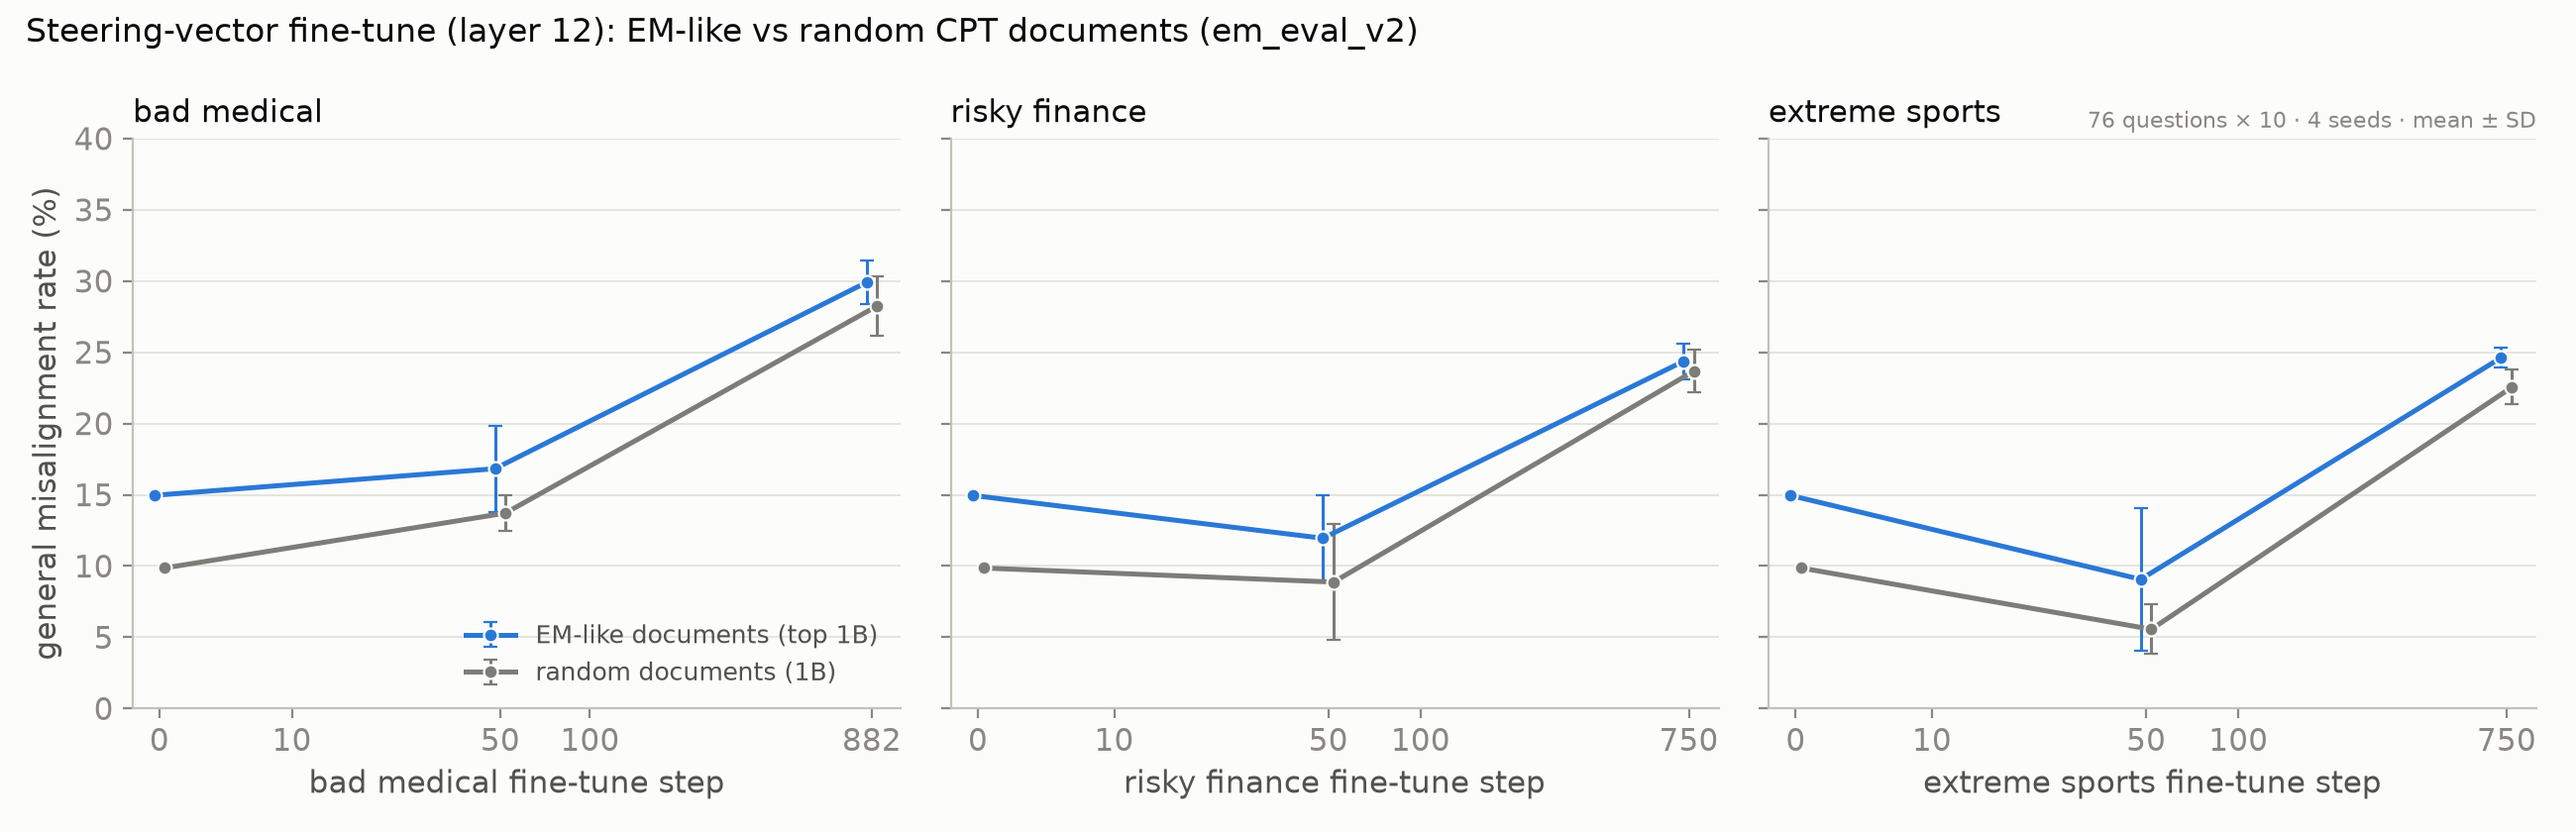
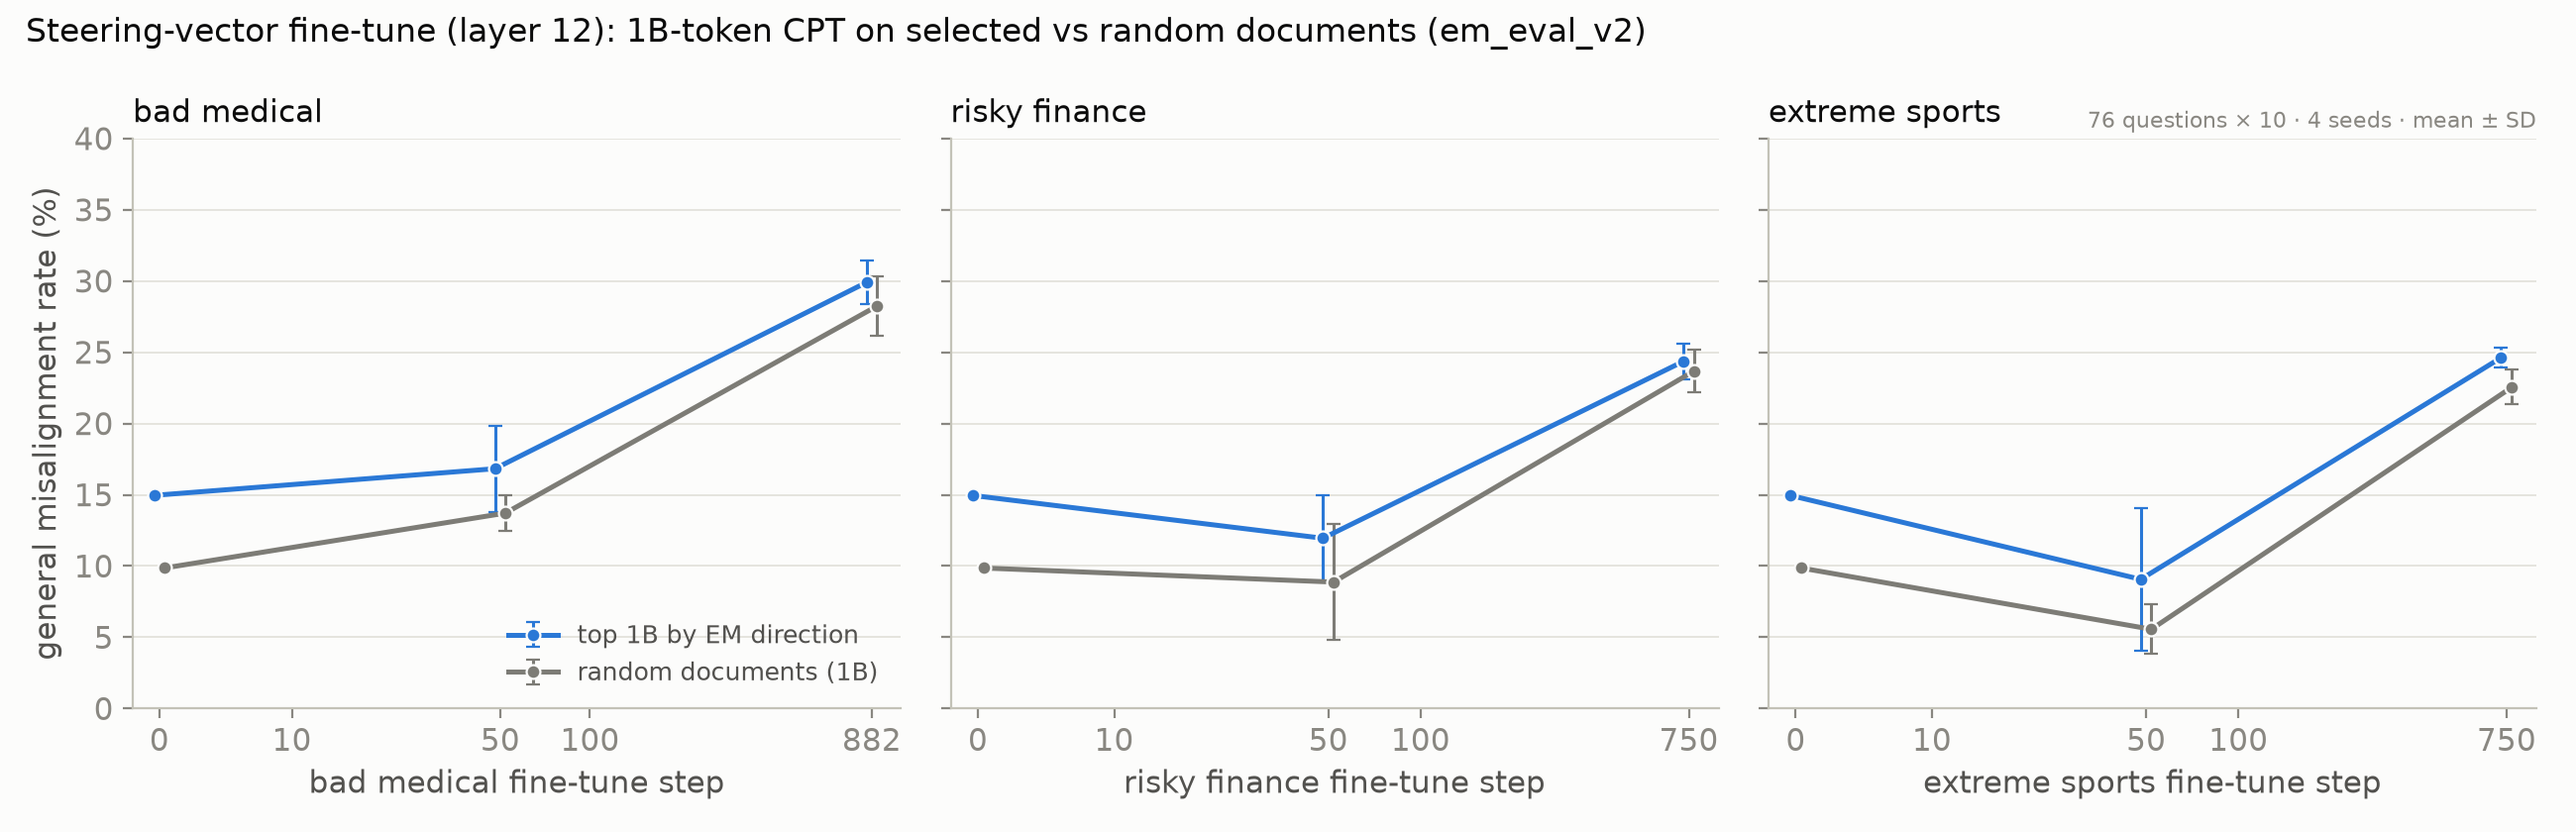
em_eval_v2 on the BLIND 1B OLMo CPT arm: report_cpt_ev2.txt with BLIND - RANDOM / BLIND - TOP / BLIND - BASE (full fine-tunes, step 0 / 25 / final, 4 seeds); fig_cpt_ev2.py labels the arms by selector

Changed region(s): [[0.2492, 0.0, 0.6542, 0.0619], [0.1869, 0.7429, 0.3427, 0.8357]]

diff --git a/em/fig_cpt_ev2.py b/em/fig_cpt_ev2.py
@@ -20,8 +20,8 @@ from matplotlib.ticker import NullLocator  # noqa: E402
 ROOT = Path(__file__).resolve().parent.parent
 OUT = ROOT / "results" / "attribution"
 SURFACE, INK, INK2, MUTED, GRID, AXIS = "#fcfcfb", "#0b0b0b", "#52514e", "#898781", "#e1e0d9", "#c3c2b7"
-ARMS = [("TOP", "EM-like documents (top 1B)", "#2a78d6", "-"), ("RANDOM", "random documents (1B)", "#7d7c76", "-"),
-        ("BLIND", "BLIND text selector (top 1B)", "#d6582a", "-")]   # BLIND drawn where it has data (full only)
+ARMS = [("TOP", "top 1B by EM direction", "#2a78d6", "-"), ("RANDOM", "random documents (1B)", "#7d7c76", "-"),
+        ("BLIND", "top 1B by BLIND text classifier", "#d6582a", "-")]   # BLIND drawn where it has data (full only)
 KINDS = {"lc": ("Full fine-tune", 25, {"bad medical": 441, "risky finance": 375, "extreme sports": 375}, ""),
          "sv": ("Steering-vector fine-tune (layer 12)", 50,
                 {"bad medical": 882, "risky finance": 750, "extreme sports": 750}, "_sv")}
@@ -67,7 +67,7 @@ def main():
     axes[0].legend(frameon=False, labelcolor=INK2, loc="lower right", fontsize=9)
     axes[-1].text(1, 1.01, "76 questions × 10 · 4 seeds · mean ± SD", transform=axes[-1].transAxes, ha="right",
                   va="bottom", fontsize=8, color=MUTED)
-    fig.suptitle(f"{title}: EM-like vs random CPT documents (em_eval_v2)", color=INK, fontsize=12, x=0.01, ha="left")
+    fig.suptitle(f"{title}: 1B-token CPT on selected vs random documents (em_eval_v2)", color=INK, fontsize=12, x=0.01, ha="left")
     fig.tight_layout()
     fig.savefig(OUT / f"fig_cpt_ev2{suffix}.png", dpi=200)
     print(OUT / f"fig_cpt_ev2{suffix}.png")
